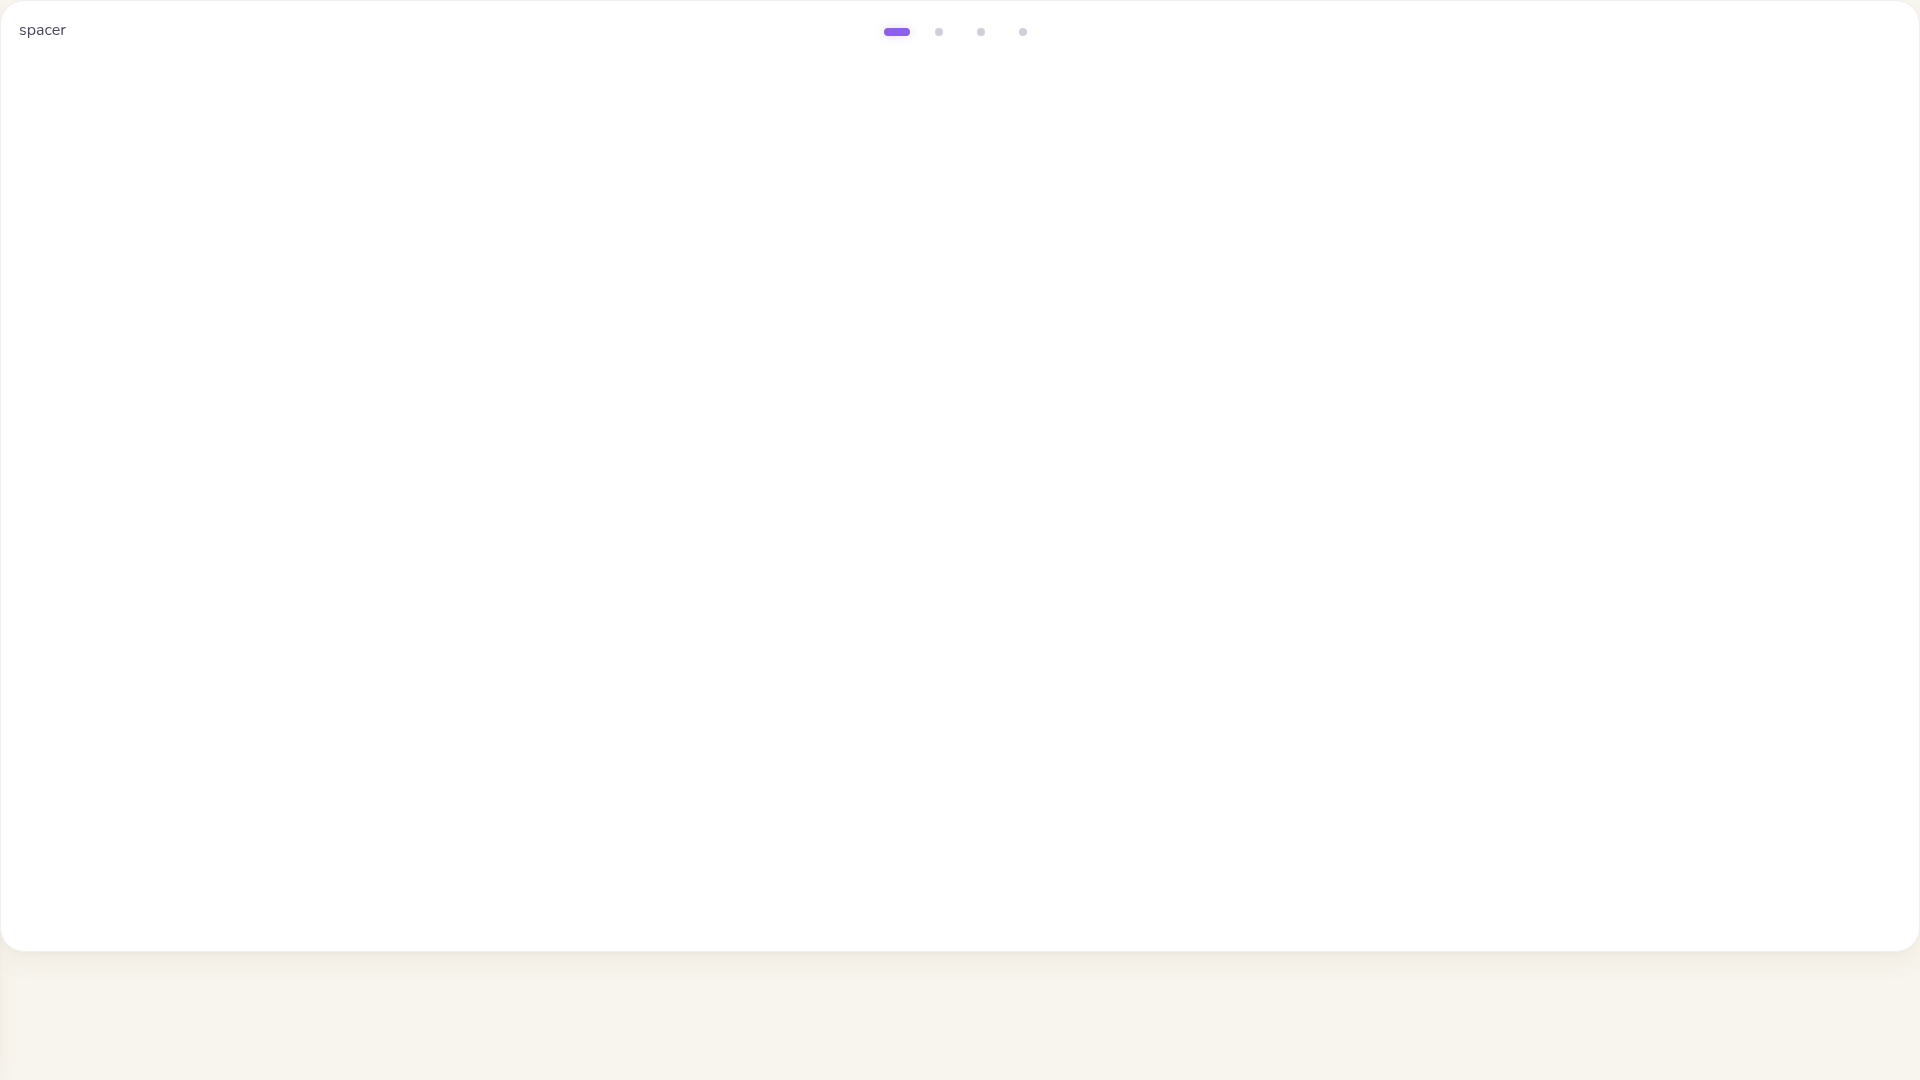
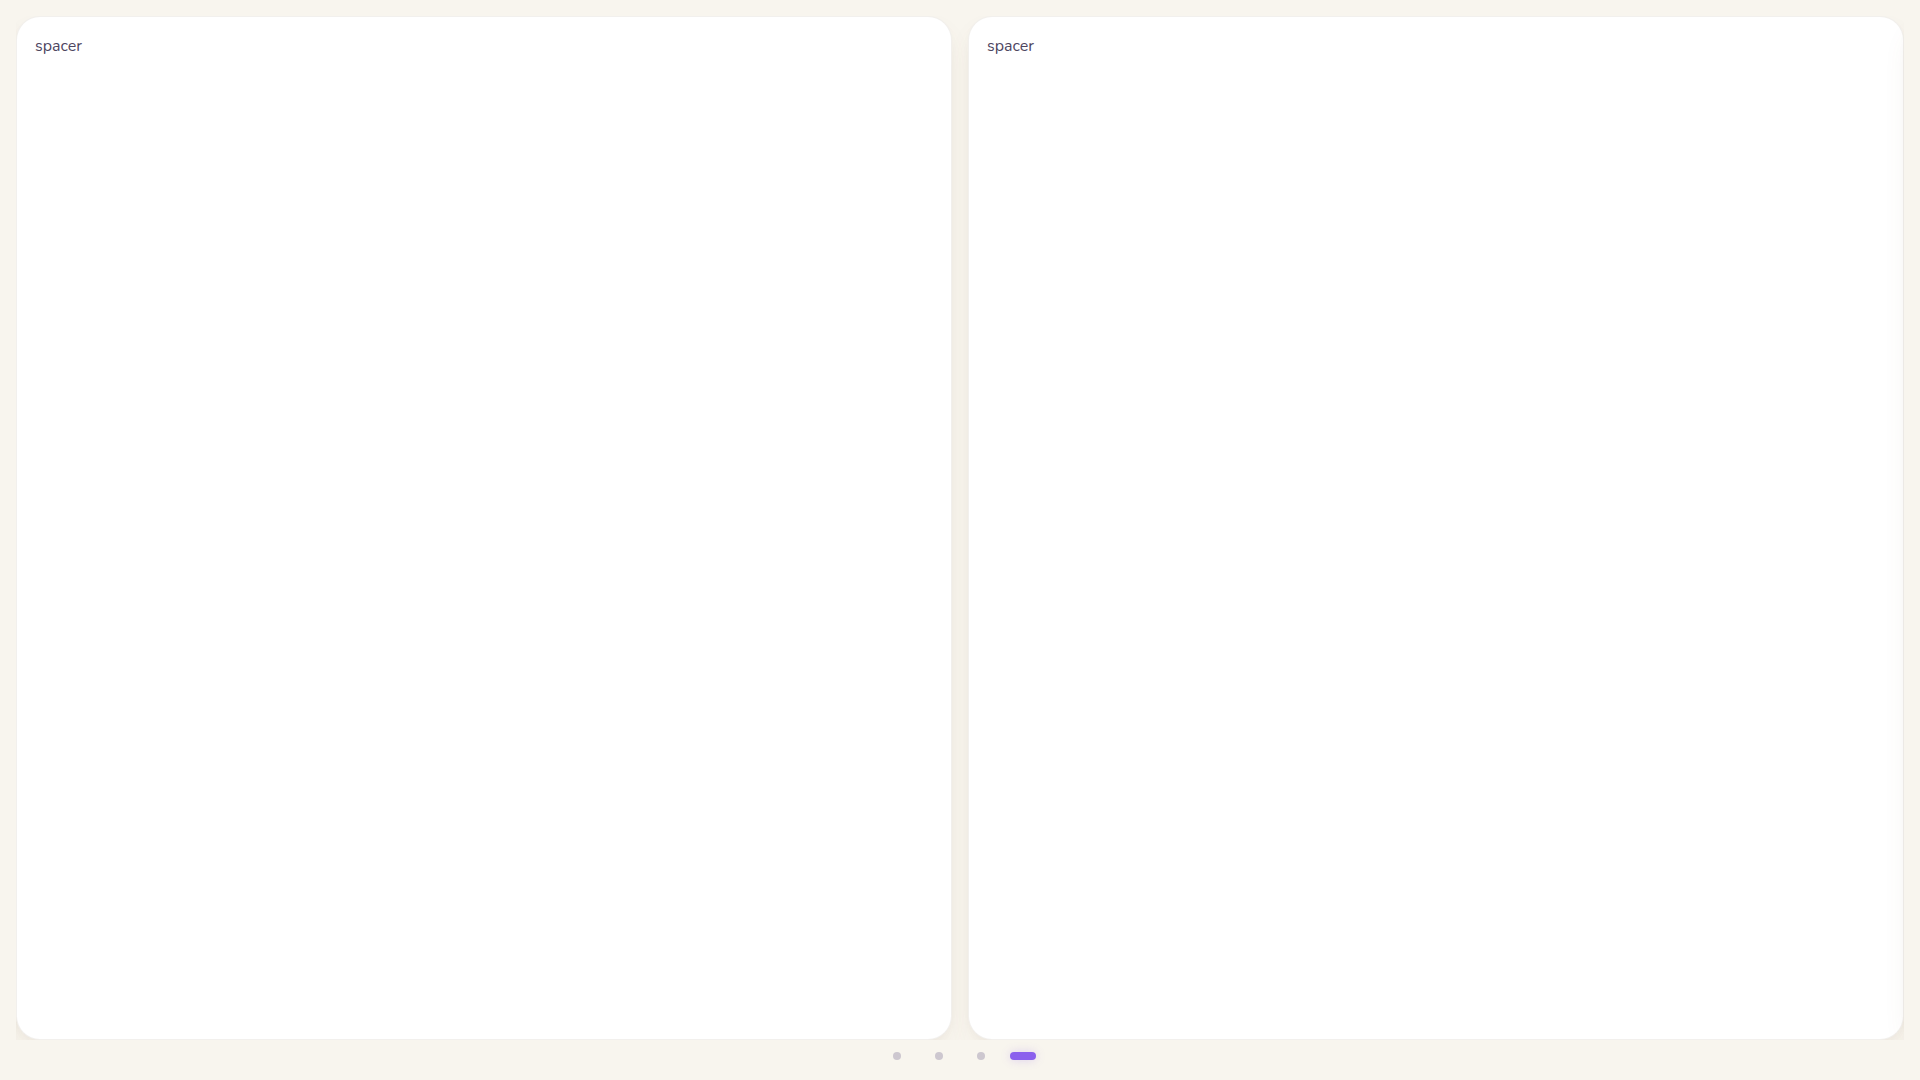
react-ui: carousel panes share the legacy grid geometry
The viewport is now a flex item of the app column, as .grid-canvas was, so the
screen indicator sits at the bottom where legacy puts it. Panes are absolute
and all take the viewport height, so the current and neighbour panes match.
Drops the scaffold #grid-canvas height:100% rule, which made the current pane
taller than its neighbours. Screenshots include a legacy reference.

Changed region(s): [[0.0, 0.8556, 1.0, 0.8861], [0.5, 0.0306, 0.5312, 0.0611], [0.0, 0.0306, 0.0312, 0.0611]]

diff --git a/web/ui/src/styles.css b/web/ui/src/styles.css
@@ -4,15 +4,15 @@
   inset: 0;
 }
 
-#grid-canvas {
-  width: 100%;
-  height: 100%;
-}
 
-/* Carousel. Panes sit at -100%, 0 and +100% of the track; the track carries the finger offset. */
+/* Carousel. The viewport takes the space legacy .grid-canvas took (a flex item of the
+   #mirrormere-app column, so the indicator below it lands where legacy puts it). Panes
+   sit at -100%, 0 and +100% of the track; the track carries the finger offset. */
 .carousel-viewport {
-  position: absolute;
-  inset: 0;
+  position: relative;
+  flex: 1 1 auto;
+  min-height: 0;
+  width: 100%;
   overflow: hidden;
 }
 
@@ -22,25 +22,19 @@
   touch-action: pan-y;
 }
 
-/* Same geometry as the legacy .grid-canvas (hud.css), which the current pane no longer carries. */
+/* Same grid as the legacy .grid-canvas (hud.css). Every pane has this geometry. */
 .grid-pane {
   position: absolute;
   top: 0;
   width: 100%;
+  height: 100%;
   display: grid;
   grid-template-columns: repeat(6, 1fr);
   grid-template-rows: repeat(2, 1fr);
   gap: var(--mm-grid-gap);
-  height: calc(100% - var(--mm-header-height) - var(--mm-grid-gap) - var(--mm-indicator-space));
 }
 
 body[data-grid="2x6"] .grid-pane {
   grid-template-columns: repeat(2, 1fr);
   grid-template-rows: repeat(6, 1fr);
-}
-
-#mirrormere-app:has(.screen-indicator[style*="display: none"]) .grid-pane,
-#mirrormere-app:has(.screen-indicator.paused) .grid-pane,
-#mirrormere-app:has(.screen-indicator[hidden]) .grid-pane {
-  height: calc(100% - var(--mm-header-height) - var(--mm-grid-gap));
 }

diff --git a/web/static/ui/app.css b/web/static/ui/app.css
@@ -1,1 +1,1 @@
-#mirrormere-app{position:fixed;top:0;right:0;bottom:0;left:0}#grid-canvas{width:100%;height:100%}.carousel-viewport{position:absolute;top:0;right:0;bottom:0;left:0;overflow:hidden}.carousel-track{position:absolute;top:0;right:0;bottom:0;left:0;touch-action:pan-y}.grid-pane{position:absolute;top:0;width:100%;display:grid;grid-template-columns:repeat(6,1fr);grid-template-rows:repeat(2,1fr);gap:var(--mm-grid-gap);height:calc(100% - var(--mm-header-height) - var(--mm-grid-gap) - var(--mm-indicator-space))}body[data-grid="2x6"] .grid-pane{grid-template-columns:repeat(2,1fr);grid-template-rows:repeat(6,1fr)}#mirrormere-app:has(.screen-indicator[style*="display: none"]) .grid-pane,#mirrormere-app:has(.screen-indicator.paused) .grid-pane,#mirrormere-app:has(.screen-indicator[hidden]) .grid-pane{height:calc(100% - var(--mm-header-height) - var(--mm-grid-gap))}
+#mirrormere-app{position:fixed;top:0;right:0;bottom:0;left:0}.carousel-viewport{position:relative;flex:1 1 auto;min-height:0;width:100%;overflow:hidden}.carousel-track{position:absolute;top:0;right:0;bottom:0;left:0;touch-action:pan-y}.grid-pane{position:absolute;top:0;width:100%;height:100%;display:grid;grid-template-columns:repeat(6,1fr);grid-template-rows:repeat(2,1fr);gap:var(--mm-grid-gap)}body[data-grid="2x6"] .grid-pane{grid-template-columns:repeat(2,1fr);grid-template-rows:repeat(6,1fr)}
